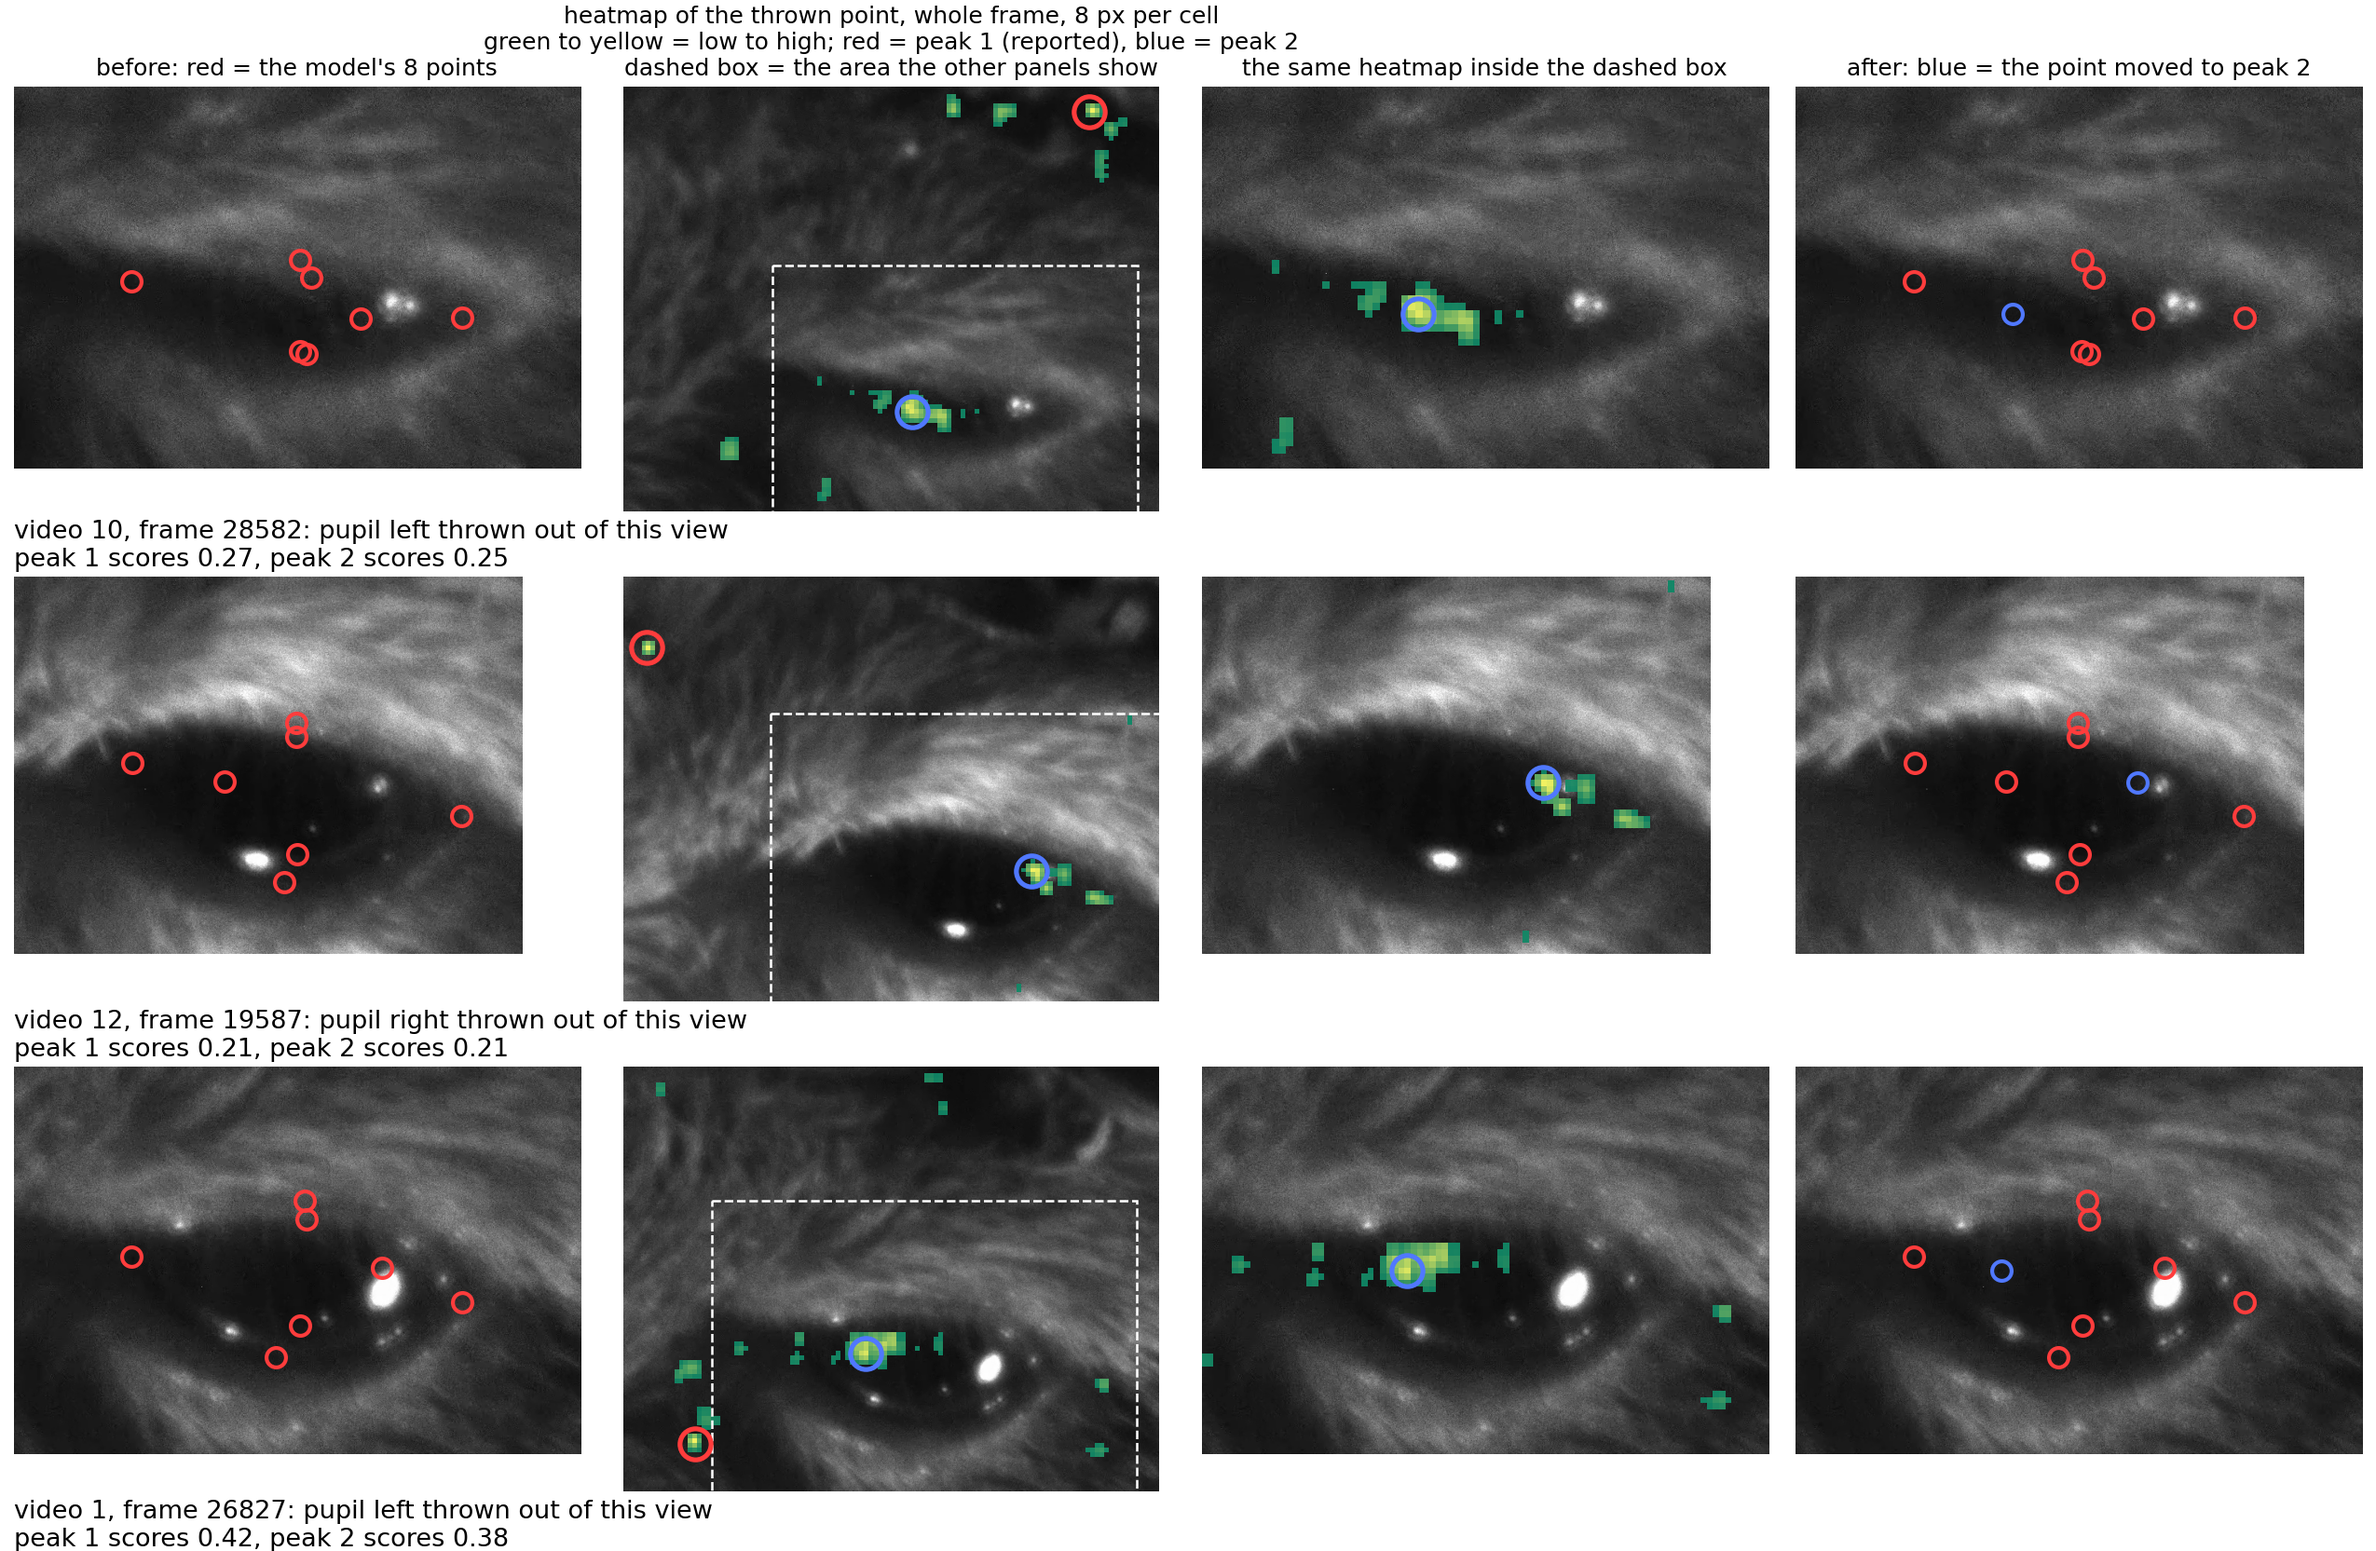
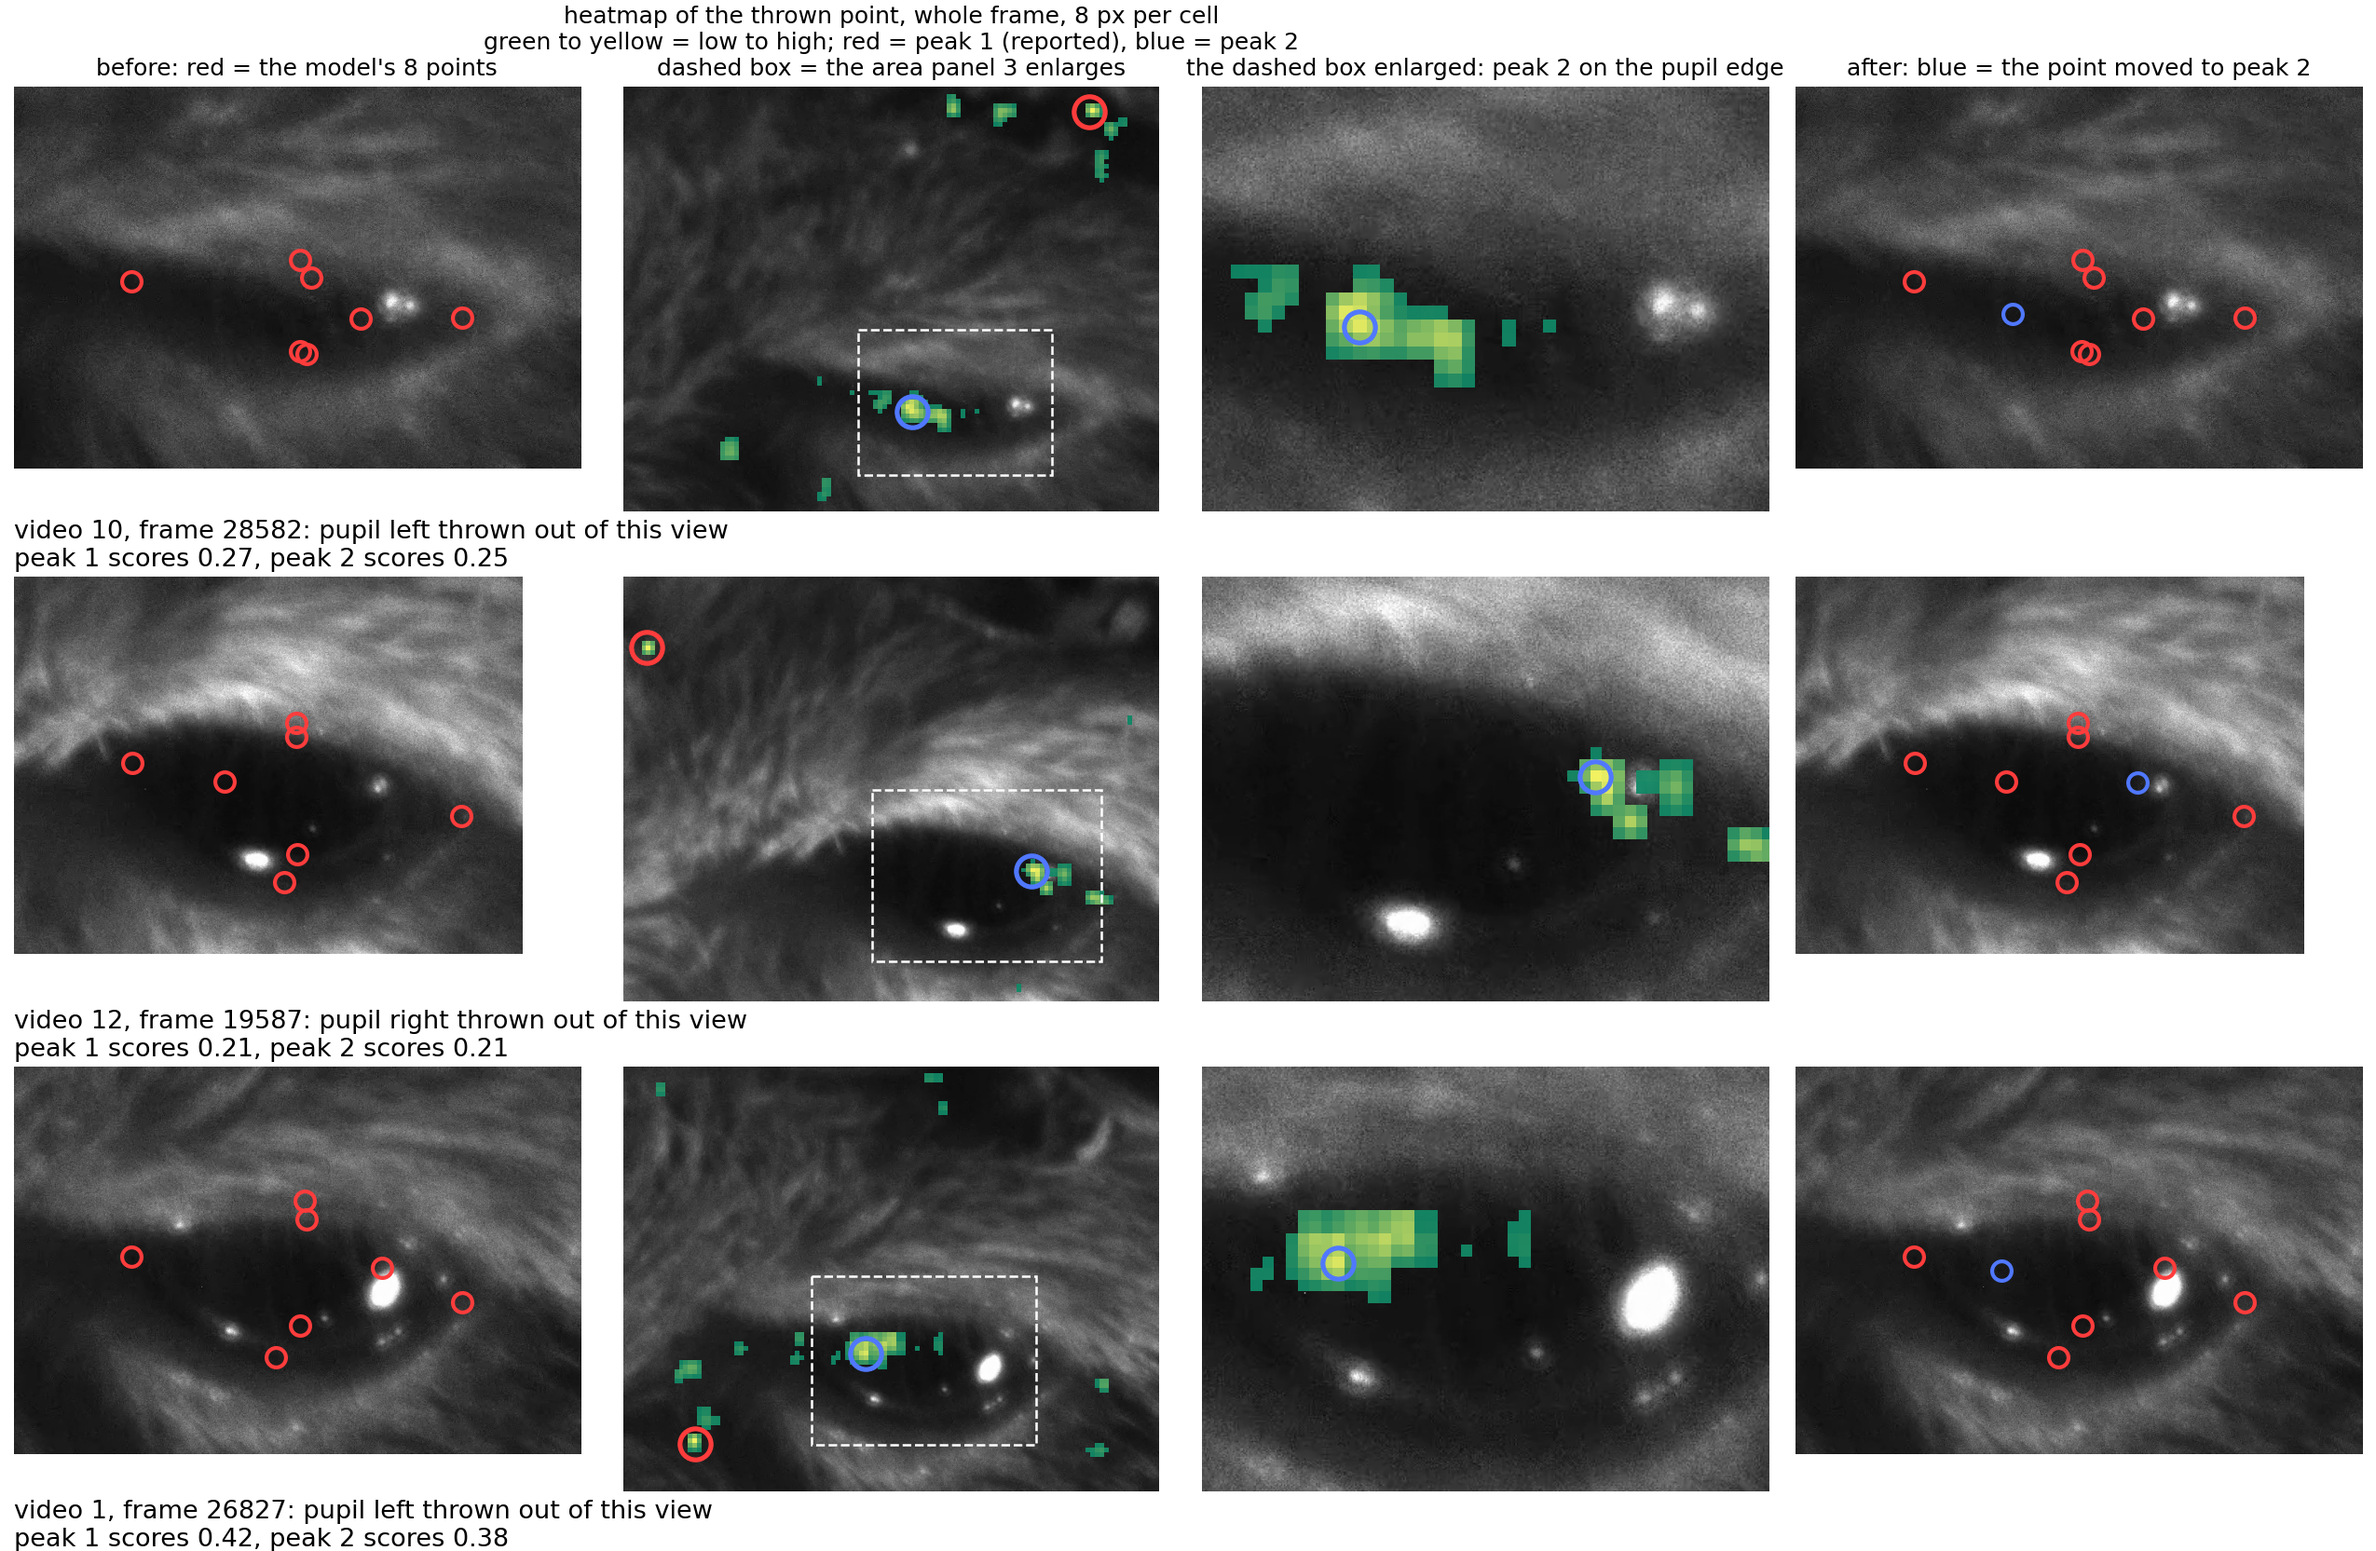
Figure 9-7: third panel is a real zoom on the pupil, box matches it

Changed region(s): [[0.2788, 0.0312, 0.7435, 0.3435], [0.4957, 0.3748, 0.7435, 0.6559], [0.4957, 0.6871, 0.7435, 0.9682]]

diff --git a/report/index.html b/report/index.html
@@ -78,7 +78,7 @@ math[display="block"]{margin:10px 0 6px;text-align:left;overflow-x:auto;max-widt
 
 <header>
   <h1><span lang="zh">小鼠眼睛关键点追踪：做了什么，结果是什么</span><span lang="en">Mouse eye keypoint tracking: what was done and what came out</span></h1>
-  <p class="muted small">Zhiheng Li (University of Minnesota), Kaiwen Sheng (Stanford) · <span lang="zh">页面生成时间</span><span lang="en">page built</span> 2026-10-31 16:38 · <a href="https://github.com/ZhihengLi0/mouse-behavior-tracking">GitHub: ZhihengLi0/mouse-behavior-tracking</a></p>
+  <p class="muted small">Zhiheng Li (University of Minnesota), Kaiwen Sheng (Stanford) · <span lang="zh">页面生成时间</span><span lang="en">page built</span> 2026-10-31 16:47 · <a href="https://github.com/ZhihengLi0/mouse-behavior-tracking">GitHub: ZhihengLi0/mouse-behavior-tracking</a></p>
 
   <div class="text" lang="zh">
     <p><b>任务：</b>用 DeepLabCut 在小鼠眼睛视频的每一帧上找 8 个点：瞳孔上、下、左、右，上眼睑、下眼睑，鼻侧眼角、颞侧眼角。由这 8 个点得到瞳孔大小、眼睛睁开程度和眨眼，之后与脑记录对齐。</p>
@@ -1255,8 +1255,8 @@ math[display="block"]{margin:10px 0 6px;text-align:left;overflow-x:auto;max-widt
   </div>
   <figure>
     <div class="figbox wide"><img src="assets/fig_heatmap_examples.jpg" alt="Three repaired frames: the model's points before, the heatmap of the thrown point with its two peaks, the points after"></div>
-    <figcaption lang="zh"><span class="tag">图 9-7：</span>三帧修复的实例。从左到右：修复前（红 = 模型的点，被甩的点在视野外）；该点的热图画在整帧上，红圈 = 峰 1，蓝圈 = 峰 2，虚线框 = 其他三格的范围；虚线框内的热图，峰 2 在瞳孔边缘上；修复后（蓝 = 挪到峰 2 的点）。</figcaption>
-    <figcaption lang="en"><span class="tag">Figure 9-7:</span>Three repaired frames. Left to right: before (red = the model's points, the thrown point outside the view); the point's heatmap over the whole frame, red ring = peak 1, blue ring = peak 2, dashed box = the area of the other panels; the heatmap inside the box, peak 2 on the pupil edge; after (blue = the point moved to peak 2).</figcaption>
+    <figcaption lang="zh"><span class="tag">图 9-7：</span>三帧修复的实例。从左到右：修复前（红 = 模型的点，被甩的点在视野外）；该点的热图画在整帧上，红圈 = 峰 1，蓝圈 = 峰 2，虚线框 = 第三格放大的范围；虚线框放大，峰 2 在瞳孔边缘上；修复后（蓝 = 挪到峰 2 的点）。</figcaption>
+    <figcaption lang="en"><span class="tag">Figure 9-7:</span>Three repaired frames. Left to right: before (red = the model's points, the thrown point outside the view); the point's heatmap over the whole frame, red ring = peak 1, blue ring = peak 2, dashed box = the area the third panel enlarges; the box enlarged, peak 2 on the pupil edge; after (blue = the point moved to peak 2).</figcaption>
   </figure>
   <figure>
     <div class="figbox wide"><img src="assets/fig_acceptance_by_finder.png" alt="Acceptance tests under each finder: outcome on the 23 wrong frames and on the flagged right frames"></div>

diff --git a/report/index_en.html b/report/index_en.html
@@ -75,7 +75,7 @@ math[display="block"]{margin:10px 0 6px;text-align:left;overflow-x:auto;max-widt
 
 <header>
   <h1><span lang="en">Mouse eye keypoint tracking: what was done and what came out</span></h1>
-  <p class="muted small">Zhiheng Li (University of Minnesota), Kaiwen Sheng (Stanford) · <span lang="en">page built</span> 2026-10-31 16:38 · <a href="https://github.com/ZhihengLi0/mouse-behavior-tracking">GitHub: ZhihengLi0/mouse-behavior-tracking</a></p>
+  <p class="muted small">Zhiheng Li (University of Minnesota), Kaiwen Sheng (Stanford) · <span lang="en">page built</span> 2026-10-31 16:47 · <a href="https://github.com/ZhihengLi0/mouse-behavior-tracking">GitHub: ZhihengLi0/mouse-behavior-tracking</a></p>
 
   
   <div class="text" lang="en">
@@ -952,7 +952,7 @@ math[display="block"]{margin:10px 0 6px;text-align:left;overflow-x:auto;max-widt
   <figure>
     <div class="figbox wide"><img src="assets/fig_heatmap_examples.jpg" alt="Three repaired frames: the model's points before, the heatmap of the thrown point with its two peaks, the points after"></div>
     
-    <figcaption lang="en"><span class="tag">Figure 9-7:</span>Three repaired frames. Left to right: before (red = the model's points, the thrown point outside the view); the point's heatmap over the whole frame, red ring = peak 1, blue ring = peak 2, dashed box = the area of the other panels; the heatmap inside the box, peak 2 on the pupil edge; after (blue = the point moved to peak 2).</figcaption>
+    <figcaption lang="en"><span class="tag">Figure 9-7:</span>Three repaired frames. Left to right: before (red = the model's points, the thrown point outside the view); the point's heatmap over the whole frame, red ring = peak 1, blue ring = peak 2, dashed box = the area the third panel enlarges; the box enlarged, peak 2 on the pupil edge; after (blue = the point moved to peak 2).</figcaption>
   </figure>
   <figure>
     <div class="figbox wide"><img src="assets/fig_acceptance_by_finder.png" alt="Acceptance tests under each finder: outcome on the 23 wrong frames and on the flagged right frames"></div>

diff --git a/report/template.html b/report/template.html
@@ -1147,8 +1147,8 @@ math[display="block"]{margin:10px 0 6px;text-align:left;overflow-x:auto;max-widt
   </div>
   <figure>
     <div class="figbox wide"><img src="assets/fig_heatmap_examples.jpg" alt="Three repaired frames: the model's points before, the heatmap of the thrown point with its two peaks, the points after"></div>
-    <figcaption lang="zh"><span class="tag">图 9-7：</span>三帧修复的实例。从左到右：修复前（红 = 模型的点，被甩的点在视野外）；该点的热图画在整帧上，红圈 = 峰 1，蓝圈 = 峰 2，虚线框 = 其他三格的范围；虚线框内的热图，峰 2 在瞳孔边缘上；修复后（蓝 = 挪到峰 2 的点）。</figcaption>
-    <figcaption lang="en"><span class="tag">Figure 9-7:</span>Three repaired frames. Left to right: before (red = the model's points, the thrown point outside the view); the point's heatmap over the whole frame, red ring = peak 1, blue ring = peak 2, dashed box = the area of the other panels; the heatmap inside the box, peak 2 on the pupil edge; after (blue = the point moved to peak 2).</figcaption>
+    <figcaption lang="zh"><span class="tag">图 9-7：</span>三帧修复的实例。从左到右：修复前（红 = 模型的点，被甩的点在视野外）；该点的热图画在整帧上，红圈 = 峰 1，蓝圈 = 峰 2，虚线框 = 第三格放大的范围；虚线框放大，峰 2 在瞳孔边缘上；修复后（蓝 = 挪到峰 2 的点）。</figcaption>
+    <figcaption lang="en"><span class="tag">Figure 9-7:</span>Three repaired frames. Left to right: before (red = the model's points, the thrown point outside the view); the point's heatmap over the whole frame, red ring = peak 1, blue ring = peak 2, dashed box = the area the third panel enlarges; the box enlarged, peak 2 on the pupil edge; after (blue = the point moved to peak 2).</figcaption>
   </figure>
   <figure>
     <div class="figbox wide"><img src="assets/fig_acceptance_by_finder.png" alt="Acceptance tests under each finder: outcome on the 23 wrong frames and on the flagged right frames"></div>

diff --git a/v2_new_pupil_top_video_scaling/scripts/heatmap_example_figure.py b/v2_new_pupil_top_video_scaling/scripts/heatmap_example_figure.py
@@ -94,8 +94,8 @@ def heatmaps(video, frames):
 def main():
     rows = pick()
     fig, axes = plt.subplots(len(rows), 4, figsize=(17, 3.7 * len(rows)), constrained_layout=True)
-    heads = ["before: red = the model's 8 points", "heatmap of the thrown point, whole frame, 8 px per cell\ngreen to yellow = low to high; red = peak 1 (reported), blue = peak 2\ndashed box = the area the other panels show",
-             "the same heatmap inside the dashed box", "after: blue = the point moved to peak 2"]
+    heads = ["before: red = the model's 8 points", "heatmap of the thrown point, whole frame, 8 px per cell\ngreen to yellow = low to high; red = peak 1 (reported), blue = peak 2\ndashed box = the area panel 3 enlarges",
+             "the dashed box enlarged: peak 2 on the pupil edge", "after: blue = the point moved to peak 2"]
     for i, (v, f, b, pts) in enumerate(rows):
         imgs, store, xy, p2, off, G, Wd = heatmaps(v, [f])
         img, (Hm, s) = imgs[0], store[0]
@@ -108,6 +108,9 @@ def main():
         x0, y0, x1, y1 = cx - w / 2, cy - h / 2, cx + w / 2, cy + h / 2
         px, py = xy[b][f]
         nx, ny = p2[b][f]
+        wz = 0.9 * Wd[f]                                      # the zoom of panel 3: about one eye width around the pupil centre
+        hz = wz * 0.75
+        zx0, zy0, zx1, zy1 = cx - wz / 2, cy - hz / 2, cx + wz / 2, cy + hz / 2
         hext = (off[b][0] - s / 2, hm.shape[1] * s + off[b][0] - s / 2, hm.shape[0] * s + off[b][1] - s / 2, off[b][1] - s / 2)
         v1 = hm.max()
         v2 = hm[int(round((ny - off[b][1]) / s)), int(round((nx - off[b][0]) / s))]
@@ -131,17 +134,17 @@ def main():
         ax.imshow(hmask, extent=hext, cmap="summer", alpha=0.95, vmin=0, vmax=hm.max(), interpolation="nearest")
         ax.plot(px, py, "o", mfc="none", mec="#ff3c3c", mew=2.5, ms=16)
         ax.plot(nx, ny, "o", mfc="none", mec="#5078ff", mew=2.5, ms=16)
-        ax.add_patch(plt.Rectangle((x0, y0), w, h, fill=False, ec="white", lw=1.2, ls="--"))
+        ax.add_patch(plt.Rectangle((zx0, zy0), wz, hz, fill=False, ec="white", lw=1.2, ls="--"))
         ax.set_xlim(0, img.shape[1])
         ax.set_ylim(img.shape[0], 0)
         ax = axes[i][2]
         ax.imshow(img)
         ax.imshow(hmask, extent=hext, cmap="summer", alpha=0.95, vmin=0, vmax=hm.max(), interpolation="nearest")
         ax.plot(nx, ny, "o", mfc="none", mec="#5078ff", mew=2.5, ms=16)
-        if not outside:
+        if zx0 <= px <= zx1 and zy0 <= py <= zy1:
             ax.plot(px, py, "o", mfc="none", mec="#ff3c3c", mew=2.5, ms=16)
-        ax.set_xlim(x0, x1)
-        ax.set_ylim(y1, y0)
+        ax.set_xlim(zx0, zx1)
+        ax.set_ylim(zy1, zy0)
         ax = axes[i][3]
         ax.imshow(img)
         for bb in BPS:
